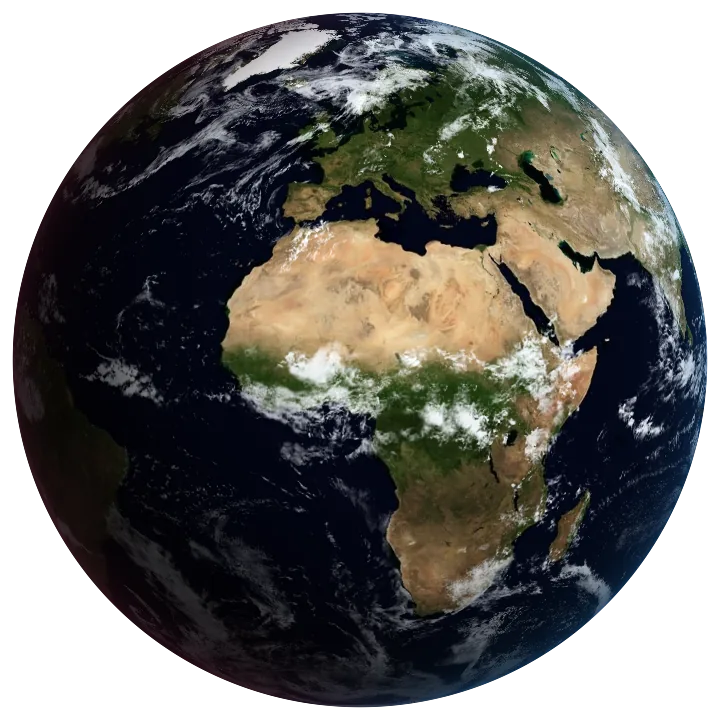
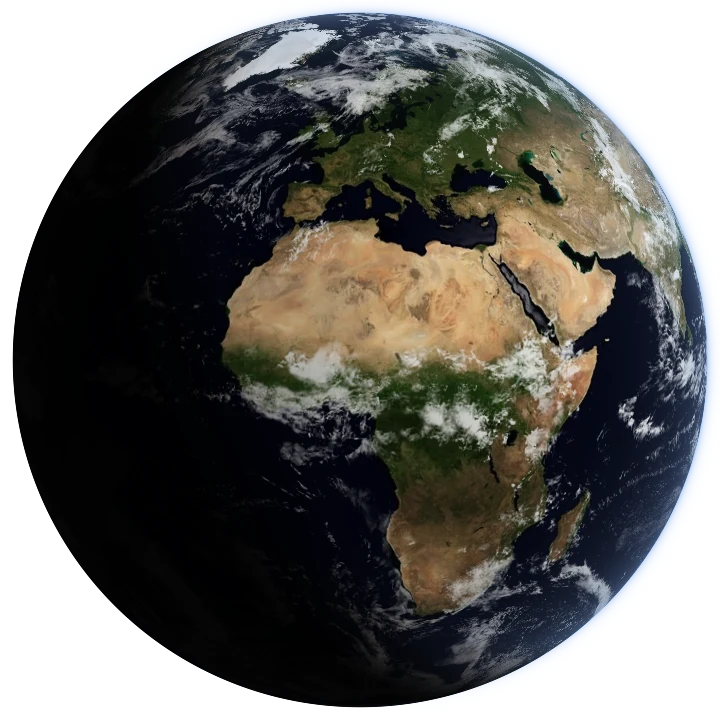
Video panel: nebula in the site's oxblood and smoke, a sunlit Earth
Recolour the nebula texture from red/electric blue to the site's oxblood,
dusty rose and smoky slate, with a real starfield. The globe gets side
sunlight with a soft terminator, a thin lit limb of air, sun glint on water;
the burgundy/blue aura is gone. Panel ground is a warm black.

Claude-Session: https://claude.ai/code/session_01UM2Fx8VypaLXnnbcRWnPnv

diff --git a/src/lib/earth-renderer.ts b/src/lib/earth-renderer.ts
@@ -13,25 +13,45 @@ export function createEarthRenderer(canvas: HTMLCanvasElement, ready: () => void
     uniform sampler2D land; uniform sampler2D clouds;
     uniform float turn;
     const float PI=3.14159265;
+    // Sunlight from the right, so a real terminator crosses the disc.
+    const vec3 SUN=vec3(0.77,0.33,0.55);
     void main(){
       vec2 p=point*1.035;
       float r=dot(p,p);
-      if(r>1.0){gl_FragColor=vec4(0.0);return;}
+      vec3 sky=vec3(0.56,0.72,0.95);
+      if(r>1.0){
+        // A thin lit limb of air just outside the disc; nothing on the night side.
+        float h=sqrt(r)-1.0;
+        float lit=smoothstep(-0.35,0.6,dot(normalize(p),SUN.xy));
+        float a=exp(-h/0.011)*lit*0.55;
+        gl_FragColor=vec4(sky*a,a);return;
+      }
       vec3 n=vec3(p,sqrt(1.0-r));
       // Tilt the viewing latitude, while rotation remains on Earth's polar axis.
       float tilt=0.23;
       vec3 q=vec3(n.x,n.y*cos(tilt)+n.z*sin(tilt),n.z*cos(tilt)-n.y*sin(tilt));
       vec2 uv=vec2(fract(atan(q.x,q.z)/(2.0*PI)+0.52+turn),0.5-asin(q.y)/PI);
       vec3 base=texture2D(land,uv).rgb;
+      float ocean=smoothstep(0.02,0.09,base.b-base.r)*(1.0-smoothstep(0.25,0.45,base.g));
+      base=pow(base,vec3(1.12))*1.12;
       float cloud=texture2D(clouds,vec2(fract(uv.x+turn*0.025),uv.y)).r;
-      base=mix(base,vec3(0.94,0.96,0.98),smoothstep(0.14,0.9,cloud)*0.88);
-      float sun=dot(n,normalize(vec3(0.55,0.4,1.0)));
-      base*=0.18+0.93*smoothstep(-0.08,0.85,sun);
-      float rim=pow(1.0-n.z,3.3);
-      vec3 air=mix(vec3(0.39,0.12,0.22),vec3(0.13,0.46,0.76),smoothstep(-0.4,0.4,n.x));
-      base=mix(base,air,rim*0.48);
+      float cover=smoothstep(0.14,0.9,cloud)*0.9;
+      base=mix(base,vec3(0.95,0.95,0.94),cover);
+      vec3 sun=normalize(SUN);
+      float d=dot(n,sun);
+      float day=smoothstep(-0.1,0.32,d);
+      vec3 color=base*(0.025+1.02*day*(0.55+0.45*max(d,0.0)));
+      // Warm light along the terminator, as at dawn and dusk.
+      color*=mix(vec3(1.0),vec3(1.12,0.9,0.78),smoothstep(0.32,0.0,d)*day);
+      // Sun glint on open water.
+      float glint=pow(max(dot(n,normalize(sun+vec3(0.0,0.0,1.0))),0.0),70.0);
+      color+=vec3(1.0,0.95,0.86)*glint*ocean*(1.0-cover)*0.45*day;
+      // Air thickens toward the edge; it scatters blue only where it is lit.
+      float edge=pow(1.0-n.z,2.4);
+      color=mix(color,sky*(0.15+0.85*day),edge*0.55*(0.25+0.75*day));
       float alpha=1.0-smoothstep(0.994,1.0,r);
-      gl_FragColor=vec4(base*alpha,alpha);
+      float halo=smoothstep(-0.35,0.6,dot(normalize(p+1e-5),SUN.xy))*0.55;
+      gl_FragColor=vec4(mix(sky*halo,color,alpha),mix(halo,1.0,alpha));
     }`;
   const shaders: WebGLShader[] = [];
   const compile = (kind: number, source: string) => {

diff --git a/src/lib/earth-canvas.ts b/src/lib/earth-canvas.ts
@@ -25,10 +25,11 @@ export function createEarthCanvas(canvas: HTMLCanvasElement, ready: () => void, 
       const z=Math.sqrt(1-r), qy=py*Math.cos(.23)+z*Math.sin(.23), qz=z*Math.cos(.23)-py*Math.sin(.23);
       longitude[i]=(Math.atan2(px,qz)/(2*Math.PI)+.52)*width;
       latitude[i]=Math.min(height-1,Math.max(0,Math.floor((.5-Math.asin(qy)/Math.PI)*height)))*width;
-      const sun=(px*.55+py*.4+z)/Math.sqrt(1+.55*.55+.4*.4);
-      const t=Math.max(0,Math.min(1,(sun+.08)/.93));
-      light[i]=.18+.93*t*t*(3-2*t);
-      rim[i]=Math.pow(1-z,3.3)*.32;
+      // Same sun as the WebGL globe: from the right, with a soft terminator.
+      const sun=(px*.77+py*.33+z*.55)/Math.sqrt(.77*.77+.33*.33+.55*.55);
+      const t=Math.max(0,Math.min(1,(sun+.1)/.42)), day=t*t*(3-2*t);
+      light[i]=.025+1.02*day*(.55+.45*Math.max(sun,0));
+      rim[i]=Math.pow(1-z,2.4)*.55*(.25+.75*day);
       output.data[i*4+3]=Math.round(255*Math.min(1,(1-r)/.006));
     }
   }
@@ -41,10 +42,10 @@ export function createEarthCanvas(canvas: HTMLCanvasElement, ready: () => void, 
       // Sample between texels: integer offsets held the same frame for ~235 ms.
       const u=(longitude[i]+offset)%width, x=Math.floor(u), blend=u-x;
       const j=(latitude[i]+x)*4, next=(latitude[i]+(x+1)%width)*4, k=i*4;
-      const shade=light[i]*(1-rim[i]);
-      data[k]=(pixels[j]+(pixels[next]-pixels[j])*blend)*shade+rim[i]*45;
-      data[k+1]=(pixels[j+1]+(pixels[next+1]-pixels[j+1])*blend)*shade+rim[i]*92;
-      data[k+2]=(pixels[j+2]+(pixels[next+2]-pixels[j+2])*blend)*shade+rim[i]*160;
+      const shade=light[i]*(1-rim[i]), air=rim[i]*Math.min(1,.15+light[i]);
+      data[k]=(pixels[j]+(pixels[next]-pixels[j])*blend)*shade+air*143;
+      data[k+1]=(pixels[j+1]+(pixels[next+1]-pixels[j+1])*blend)*shade+air*184;
+      data[k+2]=(pixels[j+2]+(pixels[next+2]-pixels[j+2])*blend)*shade+air*242;
     }
     paint!.putImageData(output!,0,0);
     context!.clearRect(0,0,canvas.width,canvas.height);

diff --git a/src/styles/video-page.css b/src/styles/video-page.css
@@ -12,13 +12,13 @@ html:has(.orbis-video) {
   scroll-behavior: auto;
 }
 .orbis-video {
-  background: #0e0f12;
+  background: #0e0d0f;
 }
 /* The viewing room has no section directory. Keep its smaller set of links
    together instead of stretching two stacks across an empty three-column band. */
 .video-footer-gap { height: 1rem; }
 .video-footer.site-footer {
-  background: linear-gradient(#0e0f12, #0c0c0c 6rem);
+  background: linear-gradient(#0e0d0f, #0c0c0c 6rem);
   border-top: 1px solid #f4efe61a;
 }
 .video-footer .footer-brand-links {
@@ -56,7 +56,7 @@ html:has(.orbis-video) {
 }
 .video-library,
 .video-watch {
-  --color-paper: #0e0f12;
+  --color-paper: #0e0d0f;
   --color-sheet: #17181d;
   --color-ink: #f4efe6;
   --color-muted: #b5b2b4;
@@ -65,10 +65,10 @@ html:has(.orbis-video) {
   --color-pine: #d9a2ae;
   min-width: 0;
   color: var(--color-ink);
-  background: #0e0f12;
+  background: #0e0d0f;
 }
 .orbis-video .section-bar {
-  --color-paper: #0e0f12;
+  --color-paper: #0e0d0f;
   --color-ink: #f4efe6;
   --color-rule: #ffffff20;
   --color-pine: #d9a2ae;
@@ -125,7 +125,7 @@ html:has(.orbis-video) {
 .video-description {
   position: relative;
   z-index: 2;
-  text-shadow: 0 1px 4px #0e0f12, 0 0 2px #0e0f12;
+  text-shadow: 0 1px 4px #0e0d0f, 0 0 2px #0e0d0f;
 }
 .video-room-heading .video-overline {
   color: #d9a2ae;
@@ -401,7 +401,7 @@ html:has(.orbis-video) {
   position: relative;
   isolation: isolate;
   overflow: clip;
-  background: #101016;
+  background: #0f0d0f;
 }
 .if-video-still {
   background: var(--video-cover-ground);

diff --git a/src/styles/watching.css b/src/styles/watching.css
@@ -18,7 +18,8 @@
 .watching-video-title { font-weight:600; line-height:1.2; overflow-wrap:anywhere; }
 .watching-video-duration { color:var(--color-muted); font-size:.75rem; }
 .watching-earth { position:relative; aspect-ratio:1; width:100%; isolation:isolate; }
-.watching-earth::before { content:""; position:absolute; inset:2%; border-radius:50%; box-shadow:-1rem 0 3rem #7e345d30,1rem 0 3rem #3779a330; z-index:-1; }
+/* No coloured aura: the globe carries its own thin, sunlit air. */
+.watching-earth::before { content:none; }
 /* Show the first rendered frame at full brightness; never fade Earth in. */
 .watching-earth canvas { display:block; width:100%; height:100%; opacity:1; transition:none; }
 /* Same picture as the canvas's first frame, so the hand-over is invisible. */

diff --git a/src/styles/video-atmosphere.css b/src/styles/video-atmosphere.css
@@ -35,12 +35,12 @@
   width: var(--star-size);
   height: var(--star-size);
   border-radius: 50%;
-  color: #e2eaff;
+  color: #f3ece0;
   background: currentColor;
   box-shadow: 0 0 3px currentColor;
   animation: orbis-star-flight var(--star-duration) linear var(--star-delay) infinite paused;
 }
-.video-flight-star:nth-of-type(3n) { color: #a2dfff; }
+.video-flight-star:nth-of-type(3n) { color: #e4e2e6; }
 .video-atmosphere[data-active="true"] .video-flight-star {
   animation-play-state: running;
 }
